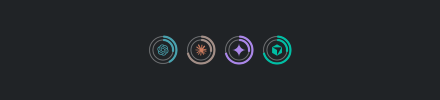
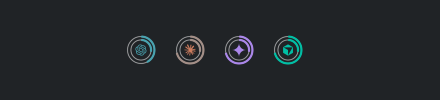
fix(panel): keep ring quotas readable and compact (#795)
Keep confidence markers outside the rings with stable measured slots, correct neutral hairline contrast, and use a compact single-ring width. Add regressions for marker bounds and RTL, rendered contrast, and provider activation.

Documentation impact: update usage, implementation guidance, the synthetic ring screenshot and Unreleased. TODO is unaffected: this fixes existing Plasma presentation with no CLI contract changes.

diff --git a/contents/ui/components/CompactRepresentation.qml b/contents/ui/components/CompactRepresentation.qml
@@ -16,6 +16,9 @@ Item {
     readonly property bool verticalPanel: applet.verticalFormFactor
     readonly property bool ringMeters: applet.panelMeterShape === "rings"
     readonly property int ringDiameter: Math.max(16, Math.min(48, (verticalPanel ? width : height) - 2))
+    readonly property int ringMarkerWidth: Math.ceil(Math.max(
+        ringMarkerMetrics.advanceWidth("?"), ringMarkerMetrics.advanceWidth("~")))
+    readonly property int ringMarkerHeight: Math.ceil(ringMarkerMetrics.height)
     readonly property bool minimalStyle: applet.minimalPanel === true
     readonly property var meterProviders: applet.compactProviders()
     readonly property bool hasProviderMeters: meterProviders.length > 0
@@ -128,10 +131,12 @@ Item {
     readonly property int meterBarWidth: verticalPanel
         ? Math.max(8, Math.min(meterContentHeight, meterIconSize + meterSpacing))
         : Math.max(Kirigami.Units.iconSizes.smallMedium, meterIconSize) + meterSpacing
-    readonly property int meterWidth: ringMeters ? ringDiameter : verticalPanel
+    readonly property int meterWidth: ringMeters
+        ? ringDiameter + (verticalPanel ? 0 : meterSpacing + ringMarkerWidth) : verticalPanel
         ? Math.max(meterIconSize, meterBarWidth)
         : meterIconSize + meterSpacing * 2 + meterBarWidth
-    readonly property int meterHeight: ringMeters ? ringDiameter : meterIconSize + meterSpacing * 3
+    readonly property int meterHeight: ringMeters
+        ? ringDiameter + (verticalPanel ? meterSpacing + ringMarkerHeight : 0) : meterIconSize + meterSpacing * 3
         + meterBarHeight * 2 + quotaSpacing
     readonly property int metersExtent: meterProviders.length * meterHeight
         + Math.max(0, meterProviders.length - 1) * providerSpacing
@@ -143,7 +148,7 @@ Item {
         inlineTextBudget)
     readonly property int desiredWidth: verticalPanel
         ? Kirigami.Units.iconSizes.small + Kirigami.Units.iconSizes.smallMedium + meterSpacing * 4
-        : Math.min(maximumCompactWidth, Math.max(Kirigami.Units.gridUnit * 4.8,
+        : Math.min(maximumCompactWidth, Math.max(ringMeters ? compactExtent : Kirigami.Units.gridUnit * 4.8,
             compactRow.implicitWidth + Kirigami.Units.smallSpacing * 2))
     readonly property int desiredHeight: verticalPanel
         ? Math.ceil(compactRow.implicitHeight + Kirigami.Units.smallSpacing * 2)
@@ -161,6 +166,13 @@ Item {
     implicitWidth: desiredWidth
     implicitHeight: desiredHeight
     clip: true
+
+    FontMetrics {
+        id: ringMarkerMetrics
+        font.family: Kirigami.Theme.smallFont.family
+        font.pointSize: Kirigami.Theme.smallFont.pointSize
+        font.bold: true
+    }
 
     // Visibility rules can filter a hovered meter out while its provider
     // stays in the roster. Its destroyed MouseArea delivers no reliable
@@ -571,7 +583,7 @@ Item {
 
                     GridLayout {
                         anchors.centerIn: parent
-                        columns: compactRoot.verticalPanel && !compactRoot.ringMeters ? 1 : 3
+                        columns: compactRoot.verticalPanel ? 1 : 4
                         rowSpacing: compactRoot.meterSpacing
                         columnSpacing: compactRoot.meterSpacing
 
@@ -615,8 +627,12 @@ Item {
                             PlainPlasmaLabel {
                                 objectName: "panelConfidenceMarker"
                                 visible: text.length > 0
-                                anchors.bottom: parent.bottom
-                                anchors.right: parent.right
+                                x: compactRoot.ringMeters
+                                    ? (compactRoot.verticalPanel ? (parent.width - width) / 2
+                                        : (LayoutMirroring.enabled ? -width - compactRoot.meterSpacing
+                                            : parent.width + compactRoot.meterSpacing)) : parent.width - width
+                                y: compactRoot.ringMeters && compactRoot.verticalPanel
+                                    ? parent.height + compactRoot.meterSpacing : parent.height - height
                                 text: {
                                     var confidence = compactMeter.quotaRows.map(function(row) {
                                         return Normalizer.usageConfidence(row.dataConfidence)
@@ -624,8 +640,7 @@ Item {
                                     return confidence.indexOf("unknown") >= 0 ? "?"
                                         : confidence.indexOf("estimated") >= 0 ? "~" : ""
                                 }
-                                font.pointSize: Kirigami.Theme.smallFont.pointSize
-                                font.bold: true
+                                font: ringMarkerMetrics.font
                                 color: Kirigami.Theme.textColor
                                 Rectangle {
                                     anchors.fill: parent
@@ -652,6 +667,16 @@ Item {
                                 border.width: 1
                                 border.color: Kirigami.Theme.backgroundColor
                             }
+                        }
+
+                        // Reserve the marker slot even for exact readings, so a
+                        // confidence update cannot shift neighbouring providers.
+                        Item {
+                            visible: compactRoot.ringMeters
+                            Layout.preferredWidth: compactRoot.verticalPanel
+                                ? compactRoot.ringDiameter : compactRoot.ringMarkerWidth
+                            Layout.preferredHeight: compactRoot.verticalPanel
+                                ? compactRoot.ringMarkerHeight : compactRoot.ringDiameter
                         }
 
                         ColumnLayout {

diff --git a/tests/tst_visual_layout.qml b/tests/tst_visual_layout.qml
@@ -439,22 +439,28 @@ TestCase {
     }
 
     function test_ringMarkersLeaveTheLogoCenterVisible_data() {
-        return [{tag: "horizontal24", vertical: false, extent: 24},
-            {tag: "horizontal32", vertical: false, extent: 32},
-            {tag: "vertical24", vertical: true, extent: 24},
-            {tag: "vertical32", vertical: true, extent: 32}];
+        var rows = [];
+        for (var vertical of [false, true])
+            for (var extent of [24, 32])
+                for (var confidence of ["estimated", "unknown"])
+                    for (var mirrored of [false, true])
+                        rows.push({tag: [vertical, extent, confidence, mirrored].join("-"),
+                            vertical: vertical, extent: extent, confidence: confidence, mirrored: mirrored});
+        return rows;
     }
 
     function test_ringMarkersLeaveTheLogoCenterVisible(data) {
         applet.panelMeterShape = "rings";
         applet.verticalFormFactor = data.vertical;
-        applet.quotaConfidence = "estimated";
+        applet.quotaConfidence = data.confidence;
         applet.quotaStale = true;
         applet.panelOrder = ["meters"];
         var panel = createControl("CompactRepresentation", {applet: applet,
             width: data.vertical ? data.extent : 300, height: data.vertical ? 240 : data.extent,
             animationsEnabled: false});
         if (!panel) return;
+        panel.LayoutMirroring.enabled = data.mirrored;
+        panel.LayoutMirroring.childrenInherit = true;
         verify(waitForRendering(panel));
         var meter = findItem(panel, item => item.objectName === "panelProviderMeter");
         var icon = findChild(meter, "panelProviderIcon");
@@ -465,6 +471,69 @@ TestCase {
             verify(center.x < 0 || center.x > marker.width || center.y < 0 || center.y > marker.height,
                 name + " covers the provider logo center");
         }
+        var confidence = findChild(meter, "panelConfidenceMarker");
+        var ring = findChild(meter, "panelMeterRing");
+        var position = confidence.mapToItem(ring, 0, 0);
+        verify(data.vertical ? position.y >= ring.height
+            : (data.mirrored ? position.x + confidence.width <= 0 : position.x >= ring.width),
+            "Confidence marker must not obscure the quota arc");
+        var bounds = confidence.mapToItem(panel, 0, 0);
+        verify(bounds.x >= 0 && bounds.y >= 0
+            && bounds.x + confidence.width <= panel.width
+            && bounds.y + confidence.height <= panel.height);
+        var extent = data.vertical ? panel.desiredHeight : panel.desiredWidth;
+        applet.quotaConfidence = "exact";
+        wait(0);
+        compare(data.vertical ? panel.desiredHeight : panel.desiredWidth, extent,
+            "Confidence updates must not move neighbouring providers");
+    }
+
+    function test_singleRingUsesItsContentWidth() {
+        applet.panelMeterShape = "rings";
+        applet.meterCount = 1;
+        applet.panelOrder = ["meters"];
+        applet.providerNameText = "";
+        applet.usageText = "";
+        var panel = createControl("CompactRepresentation", {applet: applet, height: 32,
+            animationsEnabled: false});
+        if (!panel) return;
+        verify(waitForRendering(panel));
+        verify(panel.desiredWidth < 64, "A single ring still occupies a capsule-sized slot");
+        var meter = findChild(panel, "panelProviderMeter");
+        verify(meter.width >= panel.ringDiameter);
+        mouseClick(meter, meter.width / 2, meter.height / 2);
+        compare(applet.openedProvider, "codex");
+    }
+
+    function test_neutralRingTrackHasRenderedContrast_data() {
+        var rows = [];
+        for (var light of [false, true])
+            for (var diameter of [22, 30, 46, 48])
+                rows.push({tag: light + "-" + diameter, light: light, diameter: diameter});
+        return rows;
+    }
+
+    function test_neutralRingTrackHasRenderedContrast(data) {
+        var background = data.light ? Qt.rgba(239 / 255, 240 / 255, 241 / 255, 1)
+            : Qt.rgba(32 / 255, 35 / 255, 38 / 255, 1);
+        var foreground = data.light ? Qt.rgba(35 / 255, 38 / 255, 41 / 255, 1)
+            : Qt.rgba(239 / 255, 240 / 255, 241 / 255, 1);
+        var holder = createTemporaryQmlObject('import QtQuick; Rectangle {}', testCase);
+        holder.width = holder.height = data.diameter;
+        holder.color = background;
+        var rings = createControl("PanelQuotaRings", {width: data.diameter, height: data.diameter,
+            animationsEnabled: false, backgroundColor: background, textColor: foreground,
+            trackColor: ThemeContrast.readableAccentColor(
+                ThemeContrast.interpolateColor(background, foreground, 0.35), background, foreground),
+            meters: [{percent: 0, color: foreground, warning: false}]}, holder);
+        if (!rings) return;
+        verify(waitForRendering(rings));
+        var image = grabImage(holder);
+        var contrast = 1;
+        for (var y = data.diameter / 2 - 2; y <= data.diameter / 2 + 2; y++)
+            for (var x = 0; x < 5; x++)
+                contrast = Math.max(contrast, ThemeContrast.contrastRatio(image.pixel(x, y), background));
+        verify(contrast >= 3, "Empty neutral ring has insufficient rendered contrast: " + contrast);
     }
 
     function test_panelMetersStayCenteredWithSpareWidth_data() {

diff --git a/contents/ui/components/PanelQuotaRings.qml b/contents/ui/components/PanelQuotaRings.qml
@@ -31,14 +31,11 @@ Item {
 
             ShapePath {
                 strokeWidth: 1
-                // Keep a severity tint without turning the empty scale into a
-                // measured arc. The 5.5:1 source target keeps rendered hairlines at
-                // least 3:1 in light/dark pixel checks at fractional radii.
-                strokeColor: ring.meter.warning
-                    ? ThemeContrast.readableAccentColor(
-                        ThemeContrast.interpolateColor(rings.trackColor, ring.meter.color, 0.4),
-                        rings.backgroundColor, rings.textColor, 5.5)
-                    : rings.trackColor
+                // Correct both neutral and warning hairlines for antialiasing.
+                // Keep the empty scale thinner than the measured arc.
+                strokeColor: ThemeContrast.readableAccentColor(ring.meter.warning
+                    ? ThemeContrast.interpolateColor(rings.trackColor, ring.meter.color, 0.4)
+                    : rings.trackColor, rings.backgroundColor, rings.textColor, 5.5)
                 fillColor: "transparent"
                 PathAngleArc {
                     centerX: rings.width / 2

diff --git a/docs/usage.md b/docs/usage.md
@@ -34,7 +34,11 @@ work and upstream contract requirements.
   stays available. Tiny positive values keep a short visible stroke.
   Rings work in horizontal and vertical panels, with the same provider actions,
   accessible descriptions, incident badges, stale-data dimming, and optional
-  horizontal text. The settings preview follows pending shape changes;
+  horizontal text. Confidence markers sit beside horizontal rings or below
+  vertical rings without covering the quota arcs. Their space stays reserved
+  when readings become exact, keeping neighbouring providers in place. A single
+  horizontal ring uses a compact slot instead of the capsule minimum width.
+  The settings preview follows pending shape changes;
   Apply/Cancel retains its usual meaning. The minimal-content preset keeps the
   selected shape. Restoring defaults selects Capsules. Unknown shape values
   fall back to Capsules without rewriting the saved value.

diff --git a/docs/implementation.md b/docs/implementation.md
@@ -1109,6 +1109,11 @@ interaction and adapts quota data. `panelMeterShape` is independent of the
 persisted `panelStyle` color choice, defaults to `capsules`, and is reset by
 General with the other user settings. Direct geometry QtTests and the panel
 matrix cover rings, including small/vertical panels and absent/zero quotas.
+Neutral and warning ring tracks use a 5.5:1 source contrast target to preserve
+at least 3:1 in the tested antialiased hairlines. Confidence markers have a
+font-measured, permanently reserved slot beside horizontal rings or below
+vertical rings; they never obscure the arc or resize the group on refresh.
+Ring layouts use their content width with a native compact hit-area minimum.
 
 ## QML conventions
 

diff --git a/CHANGELOG.md b/CHANGELOG.md
@@ -70,6 +70,10 @@ For earlier versions, see [GitHub Releases](https://github.com/Lucenx9/codexbar-
 
 ### Fixed
 
+- Keep panel-ring confidence markers outside the quota arcs, strengthen empty
+  ring tracks in light and dark themes, and reduce the unused panel space
+  around a single ring without moving providers when confidence changes.
+
 - Keep weekly token comparisons available when pricing is partial but daily
   token counts are complete. Missing counts and excluded incomplete requests
   still make the comparison unavailable.
